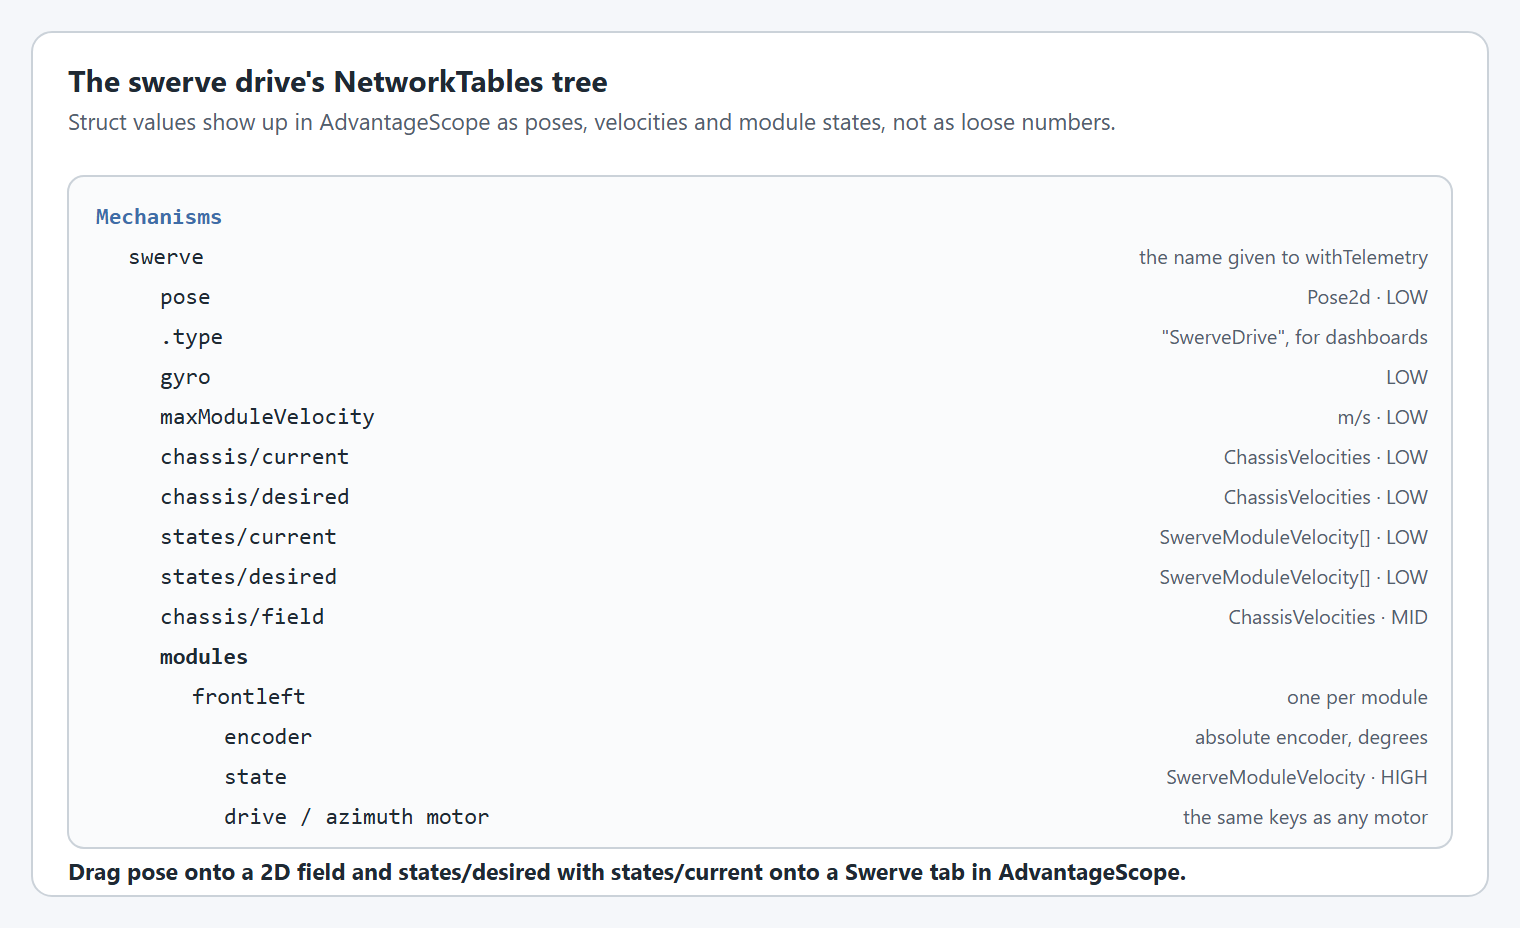
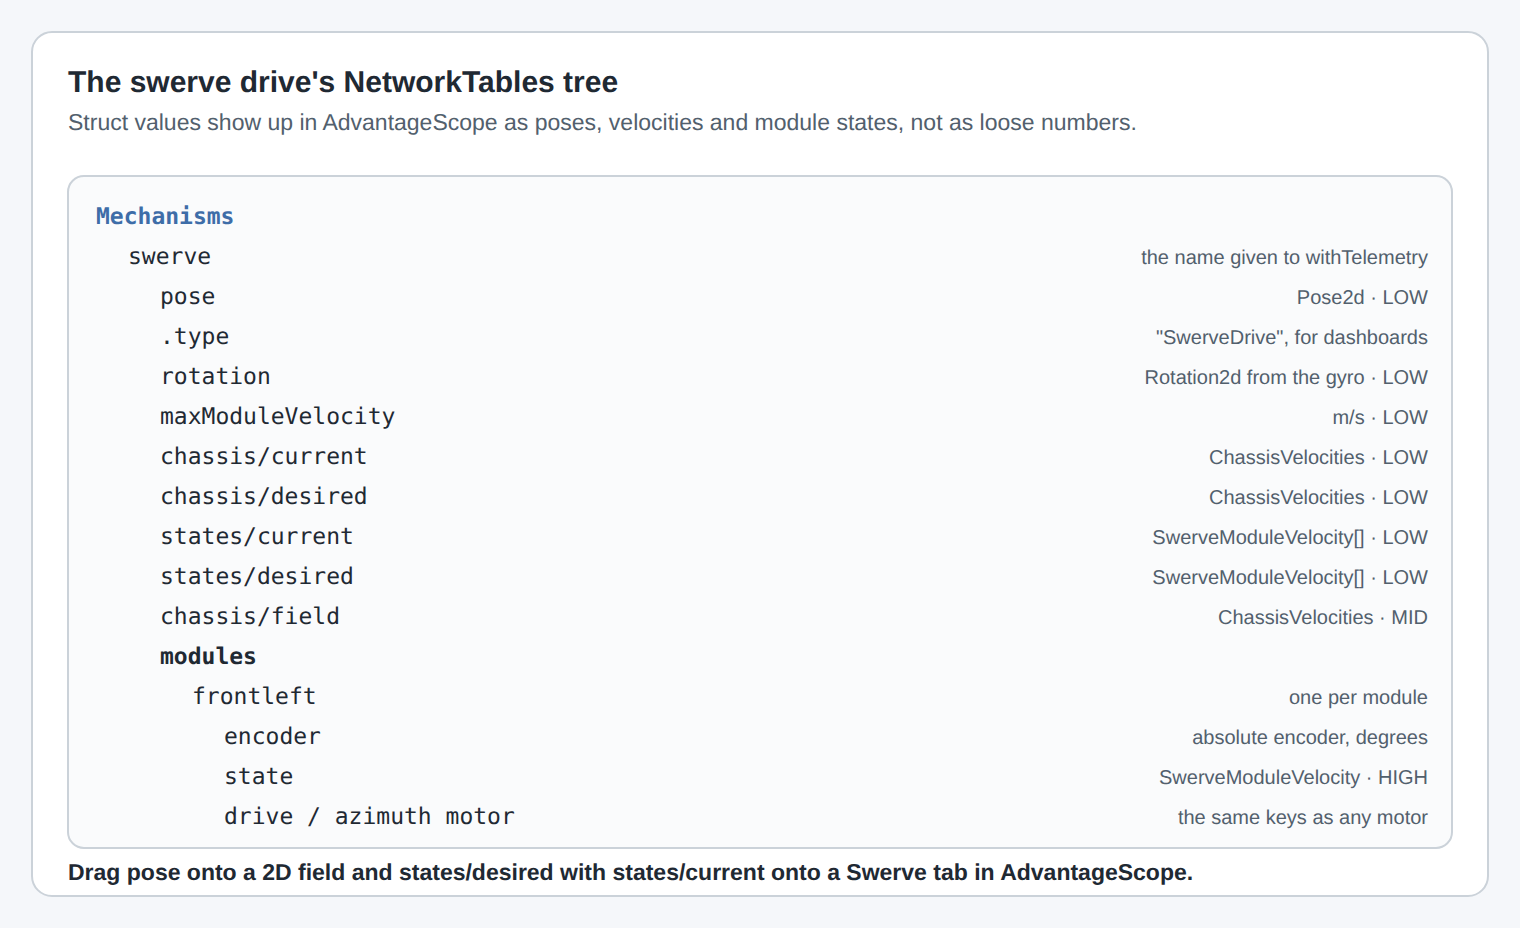
Swerve telemetry: the gyro is published as a Rotation2d at rotation

diff --git a/understanding/telemetry.md b/understanding/telemetry.md
@@ -158,7 +158,7 @@ A DataLog uses storage on the SystemCore, and logging everything fills it quickl
 
 A swerve drive publishes poses, chassis velocities and module states. Those are not single numbers, so they are published as NT4 structs that AdvantageScope understands directly.
 
-<figure><img src="../.gitbook/assets/telemetry-swerve-tree.png" alt="The NetworkTables tree for a swerve drive named swerve: its .type, then pose, gyro, maxModuleVelocity, chassis/current, chassis/desired, states/current and states/desired at LOW verbosity, chassis/field at MID, and a modules table with one entry per module holding its absolute encoder, its state and its drive and azimuth motors"><figcaption><p>What a swerve drive publishes, and at which verbosity.</p></figcaption></figure>
+<figure><img src="../.gitbook/assets/telemetry-swerve-tree.png" alt="The NetworkTables tree for a swerve drive named swerve: its .type, then pose, rotation (the gyro, as a Rotation2d), maxModuleVelocity, chassis/current, chassis/desired, states/current and states/desired at LOW verbosity, chassis/field at MID, and a modules table with one entry per module holding its absolute encoder, its state and its drive and azimuth motors"><figcaption><p>What a swerve drive publishes, and at which verbosity.</p></figcaption></figure>
 
 ### Setting it up
 
@@ -166,14 +166,14 @@ A swerve drive publishes poses, chassis velocities and module states. Those are 
 
 | Config                        | Passed to                                        | Notable fields                                                                       |
 | ----------------------------- | ------------------------------------------------ | ------------------------------------------------------------------------------------ |
-| `SwerveDriveTelemetryConfig`  | `SwerveDriveConfig.withTelemetry(name, config)`  | `withPose()`, `withGyro()`, `withCurrentModuleStates()`, `withDesiredModuleStates()`, `withMaximumModuleVelocity()` |
+| `SwerveDriveTelemetryConfig`  | `SwerveDriveConfig.withTelemetry(name, config)`  | `withPose()`, `withRotation()`, `withCurrentModuleStates()`, `withDesiredModuleStates()`, `withMaximumModuleVelocity()` |
 | `SwerveModuleTelemetryConfig` | `SwerveModuleConfig.withTelemetry(name, config)` | `withAbsoluteEncoder()`, `withState()`                                               |
 
 ```java
 SwerveDriveTelemetryConfig driveTelemetryConfig = new SwerveDriveTelemetryConfig()
     .withTelemetryVerbosity(TelemetryVerbosity.HIGH)
     .withPose()
-    .withGyro()
+    .withRotation() // the gyro's Rotation2d; withGyro() does the same
     .withMaximumModuleVelocity()
     .withCurrentRobotRelativeChassisSpeeds()
     .withFieldRelativeChassisSpeeds()

diff --git a/details/swerve-drive.md b/details/swerve-drive.md
@@ -365,7 +365,7 @@ The auto-align gains, and the drive and azimuth motor gains, can be tuned from a
 
 ## Telemetry verbosity
 
-Like every other mechanism, `SwerveDriveConfig.withTelemetry(name, TelemetryVerbosity)` picks a preset bundle of fields to publish. `LOW` publishes everything a dashboard's swerve drive widget needs: the pose, the gyro angle, the current and desired chassis speeds and module states, and the modules' maximum speed. `MID` adds the field-relative chassis speeds, and `HIGH` the tuning keys. Each level includes everything the level below it publishes. Whenever NetworkTables output is on, `.type` reads `SwerveDrive`, so a dashboard can recognize the drive's table.
+Like every other mechanism, `SwerveDriveConfig.withTelemetry(name, TelemetryVerbosity)` picks a preset bundle of fields to publish. `LOW` publishes everything a dashboard's swerve drive widget needs: the pose, the robot's rotation from the gyro, the current and desired chassis speeds and module states, and the modules' maximum speed. `MID` adds the field-relative chassis speeds, and `HIGH` the tuning keys. Each level includes everything the level below it publishes. Whenever NetworkTables output is on, `.type` reads `SwerveDrive`, so a dashboard can recognize the drive's table.
 
 ```java
 config.withTelemetry("swerve", TelemetryVerbosity.HIGH);
@@ -374,7 +374,7 @@ config.withTelemetry("swerve", TelemetryVerbosity.HIGH);
 | Field                                      | NetworkTables key                   | `LOW` | `MID` | `HIGH` |
 | ------------------------------------------ | ----------------------------------- | :---: | :---: | :----: |
 | Pose                                       | `pose`                              |   ✓   |   ✓   |    ✓   |
-| Gyro angle                                 | `gyro`                              |   ✓   |   ✓   |    ✓   |
+| Rotation from the gyro (`Rotation2d`)      | `rotation`                          |   ✓   |   ✓   |    ✓   |
 | Current robot-relative ChassisVelocities   | `chassis/current`                   |   ✓   |   ✓   |    ✓   |
 | Desired robot-relative ChassisVelocities   | `chassis/desired`                   |   ✓   |   ✓   |    ✓   |
 | Current module states                      | `states/current`                    |   ✓   |   ✓   |    ✓   |
